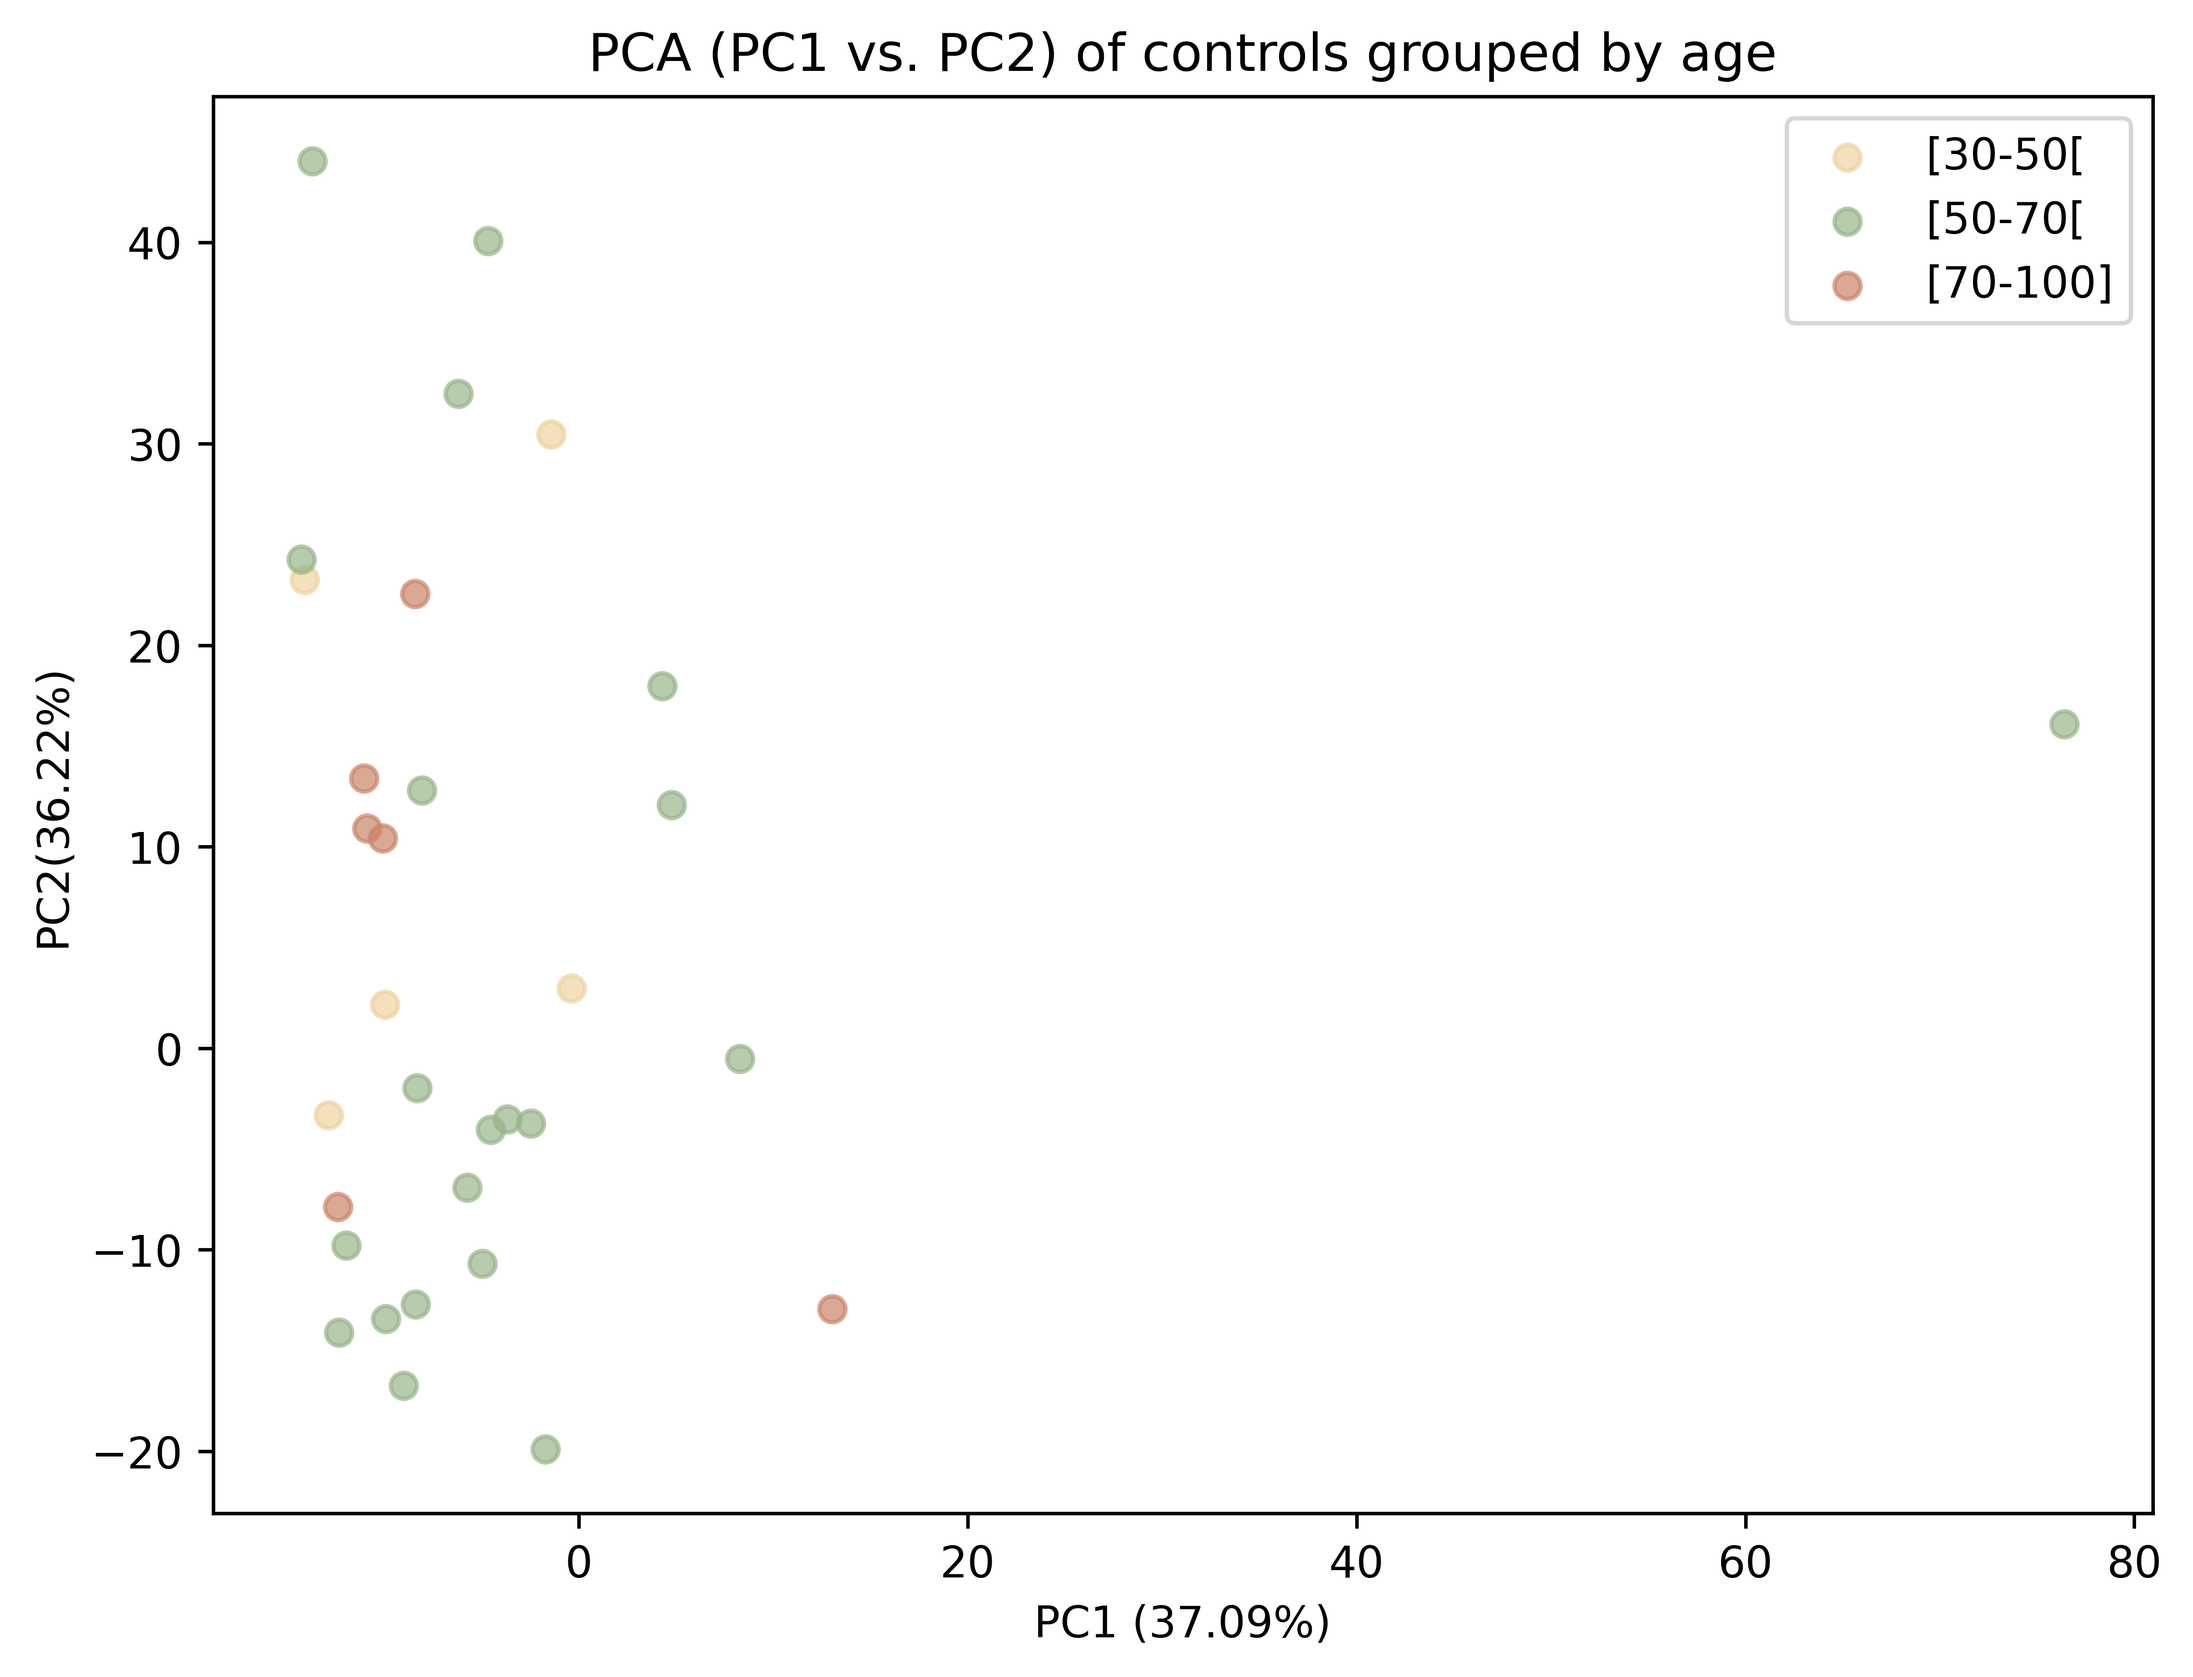
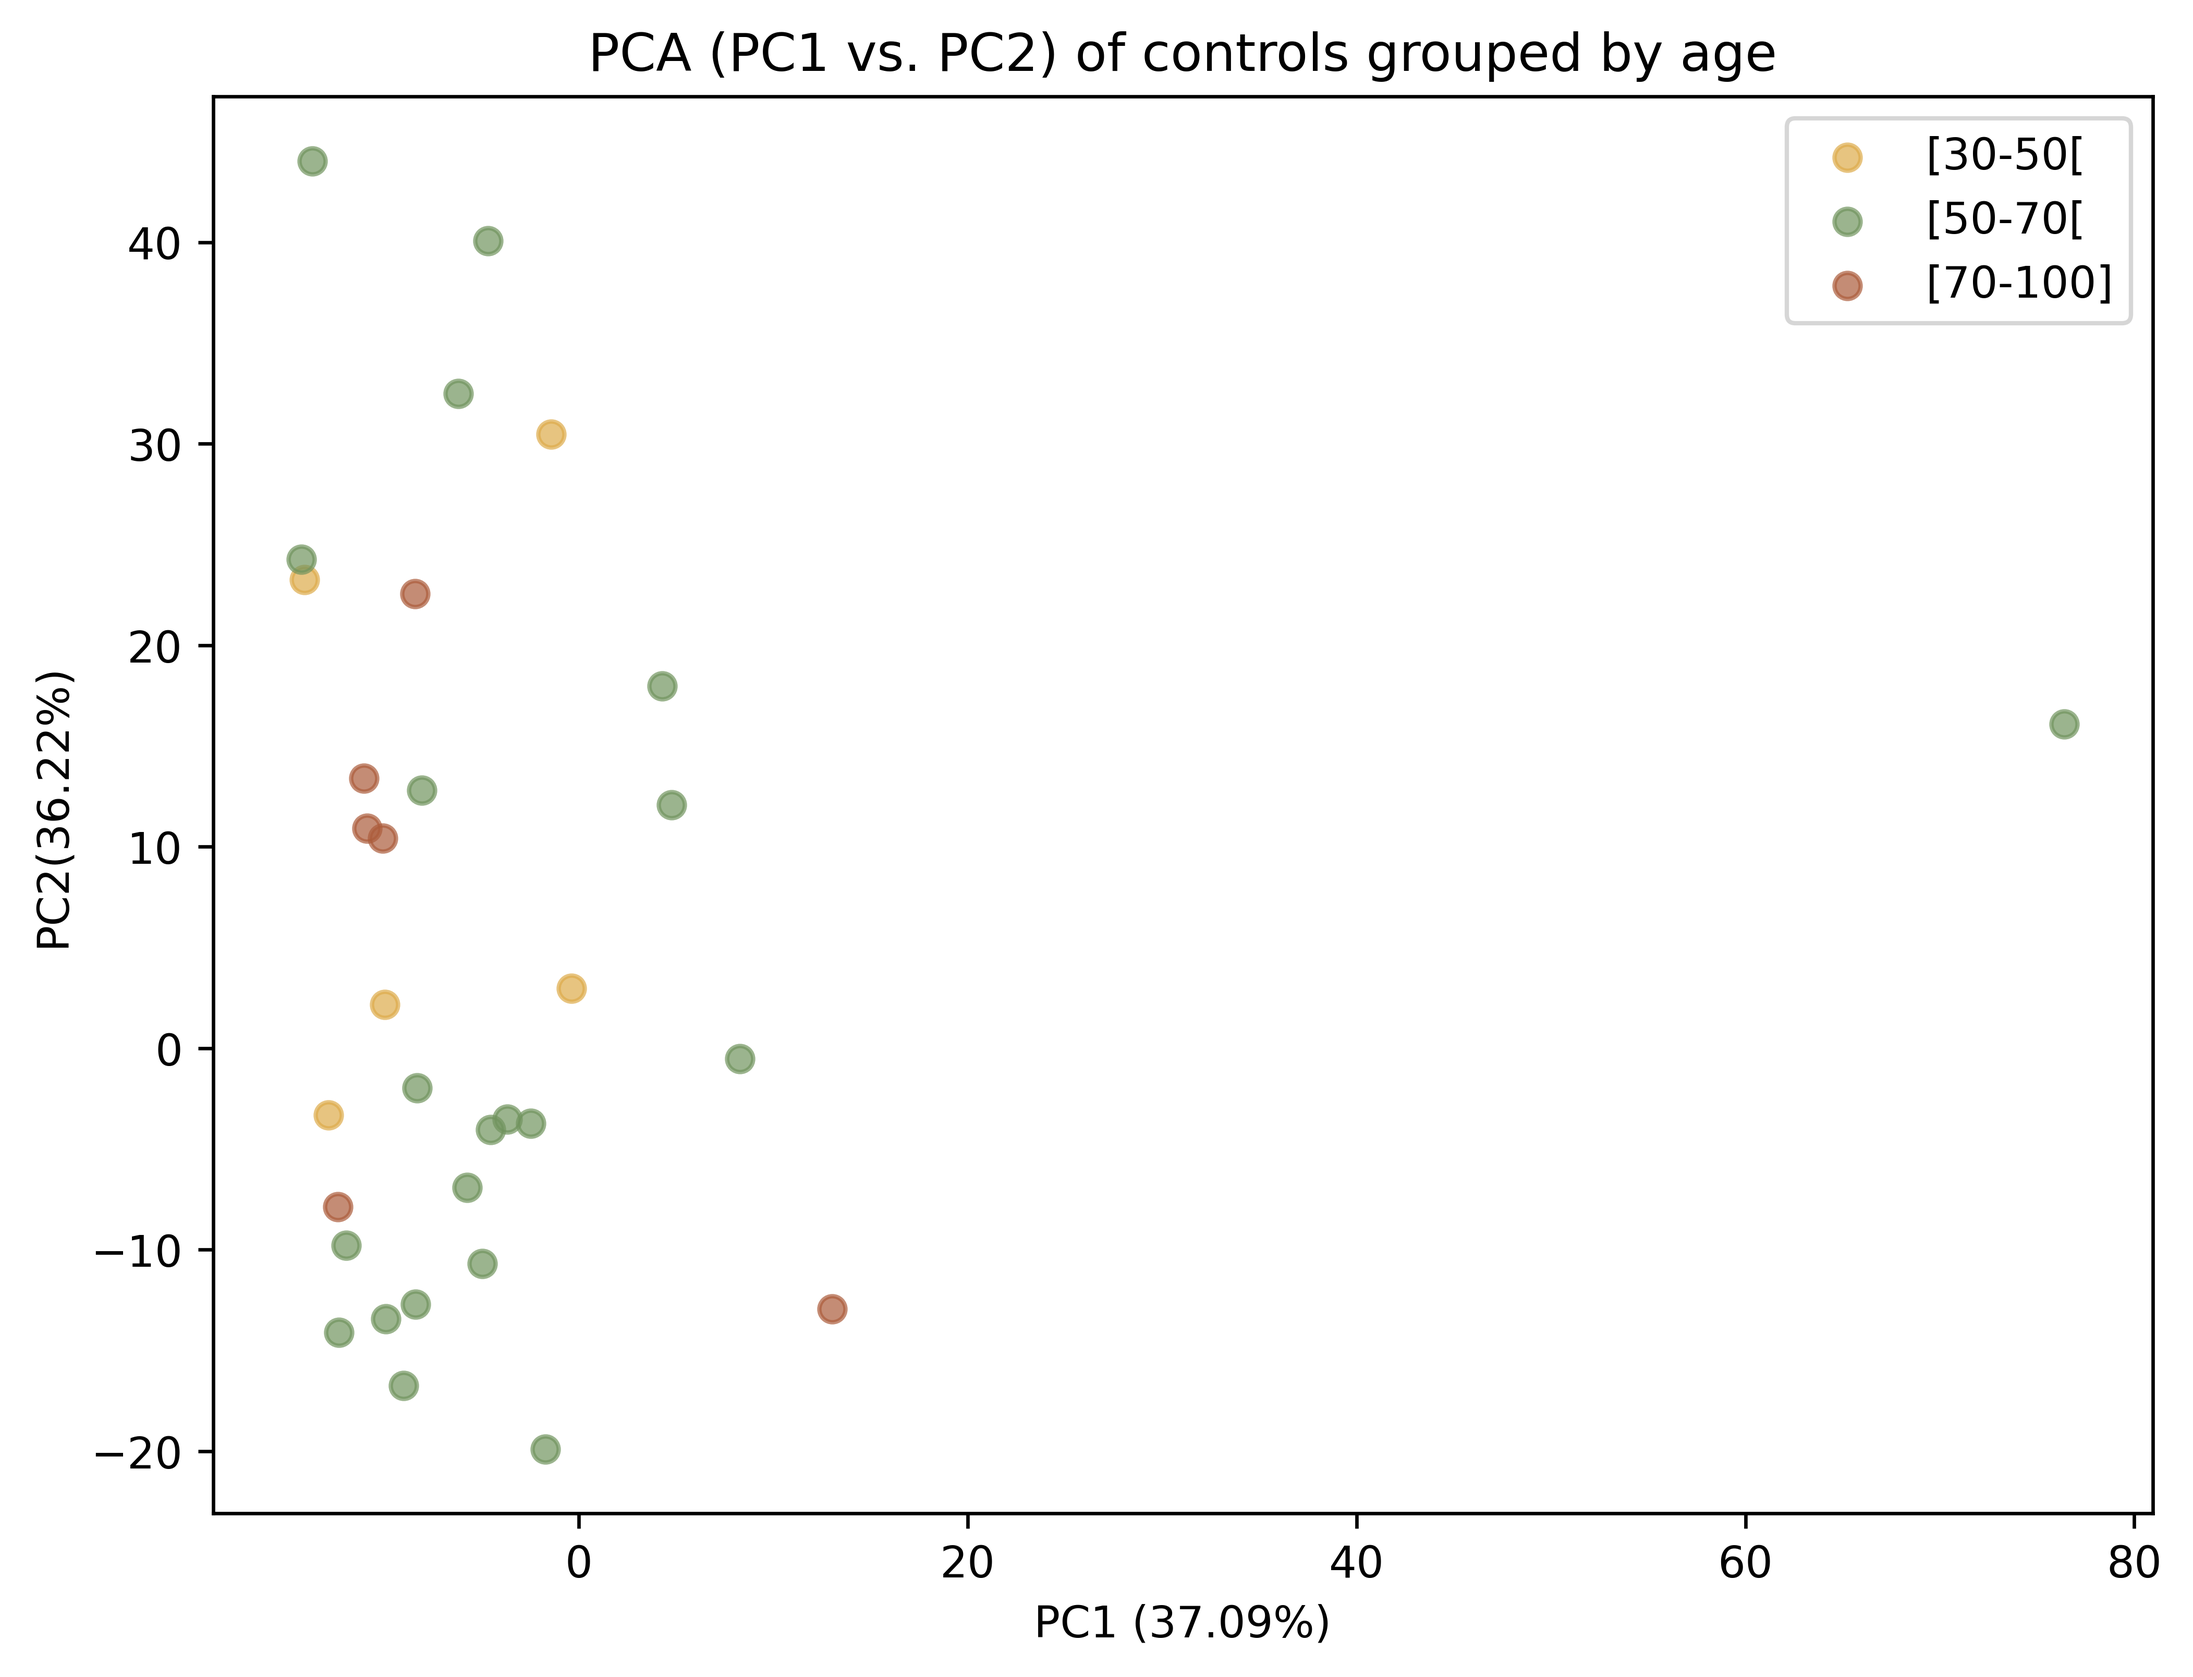
color change

diff --git a/02.RegExp_Media_Baseline.py b/02.RegExp_Media_Baseline.py
@@ -123,13 +123,12 @@ plt.xlabel('Wavelength')
 plt.ylabel('Absorvance')
 plt.legend()
 plt.xlim((cut_columns.max(), cut_columns.min()))  # Set x-axis limits to include all data
-plt.show()
 plt.savefig('All Spectra (Baseline Corrected, Normalized, and Cut between 1850-2500) - URINE', dpi=600, bbox_inches='tight')
 
 print(f"Number of spectra plotted: {num_spectra}")
 
 # Define os grupos
-group_colors = {1: "#ff7f7f", 0: "#a5a7a7"}
+group_colors = {1: "#ff7f7f", 0: "#7e8181"}
 group_labels = {1: "Patient", 0: "Control"}
 
 df_spectra = pd.read_excel("Normalized_Spectra.xlsx")
@@ -173,7 +172,6 @@ plt.xlabel('Wavenumber')
 plt.ylabel('Absorvance')
 plt.legend()
 plt.tight_layout()
-plt.show()
 plt.savefig('Average Spectra of Each Group', dpi=600, bbox_inches='tight')
 
 '''for i in range(len(df)):

diff --git a/03. Unsupervised and Supervised ML.py b/03. Unsupervised and Supervised ML.py
@@ -9,7 +9,7 @@ from scipy.stats import zscore
 from zz_plots_func import plot_2d_scatter, plot_3d_scatter
 
 # Define os mapeamentos de cores e labels para os grupos
-group_colors = {1: "#ff7f7f", 0: "#a5a7a7"}
+group_colors = {1: "#ff7f7f", 0: "#7e8181"}
 group_labels = {1: "Patient", 0: "Control"}
 
 # Carregar dados espectrais e grupos usando merge
@@ -164,7 +164,7 @@ for i in range (len(df['Age'])):
         elif df['Age'].iloc[i] >= 70 and df['Age'].iloc[i]<=100:
             df['Age'].iloc[i] = 2
 
-group_colors = {1: "#eed3a0", 0: "#99b58a", 2: "#cb8569"}
+group_colors = {1: "#deab4a", 0: "#71945e", 2: "#ac5c3b"}
 group_labels = {1: "[30-50[", 0: "[50-70[", 2: "[70-100]"}
 
 age_clean = df['Age'][mask].to_numpy()
